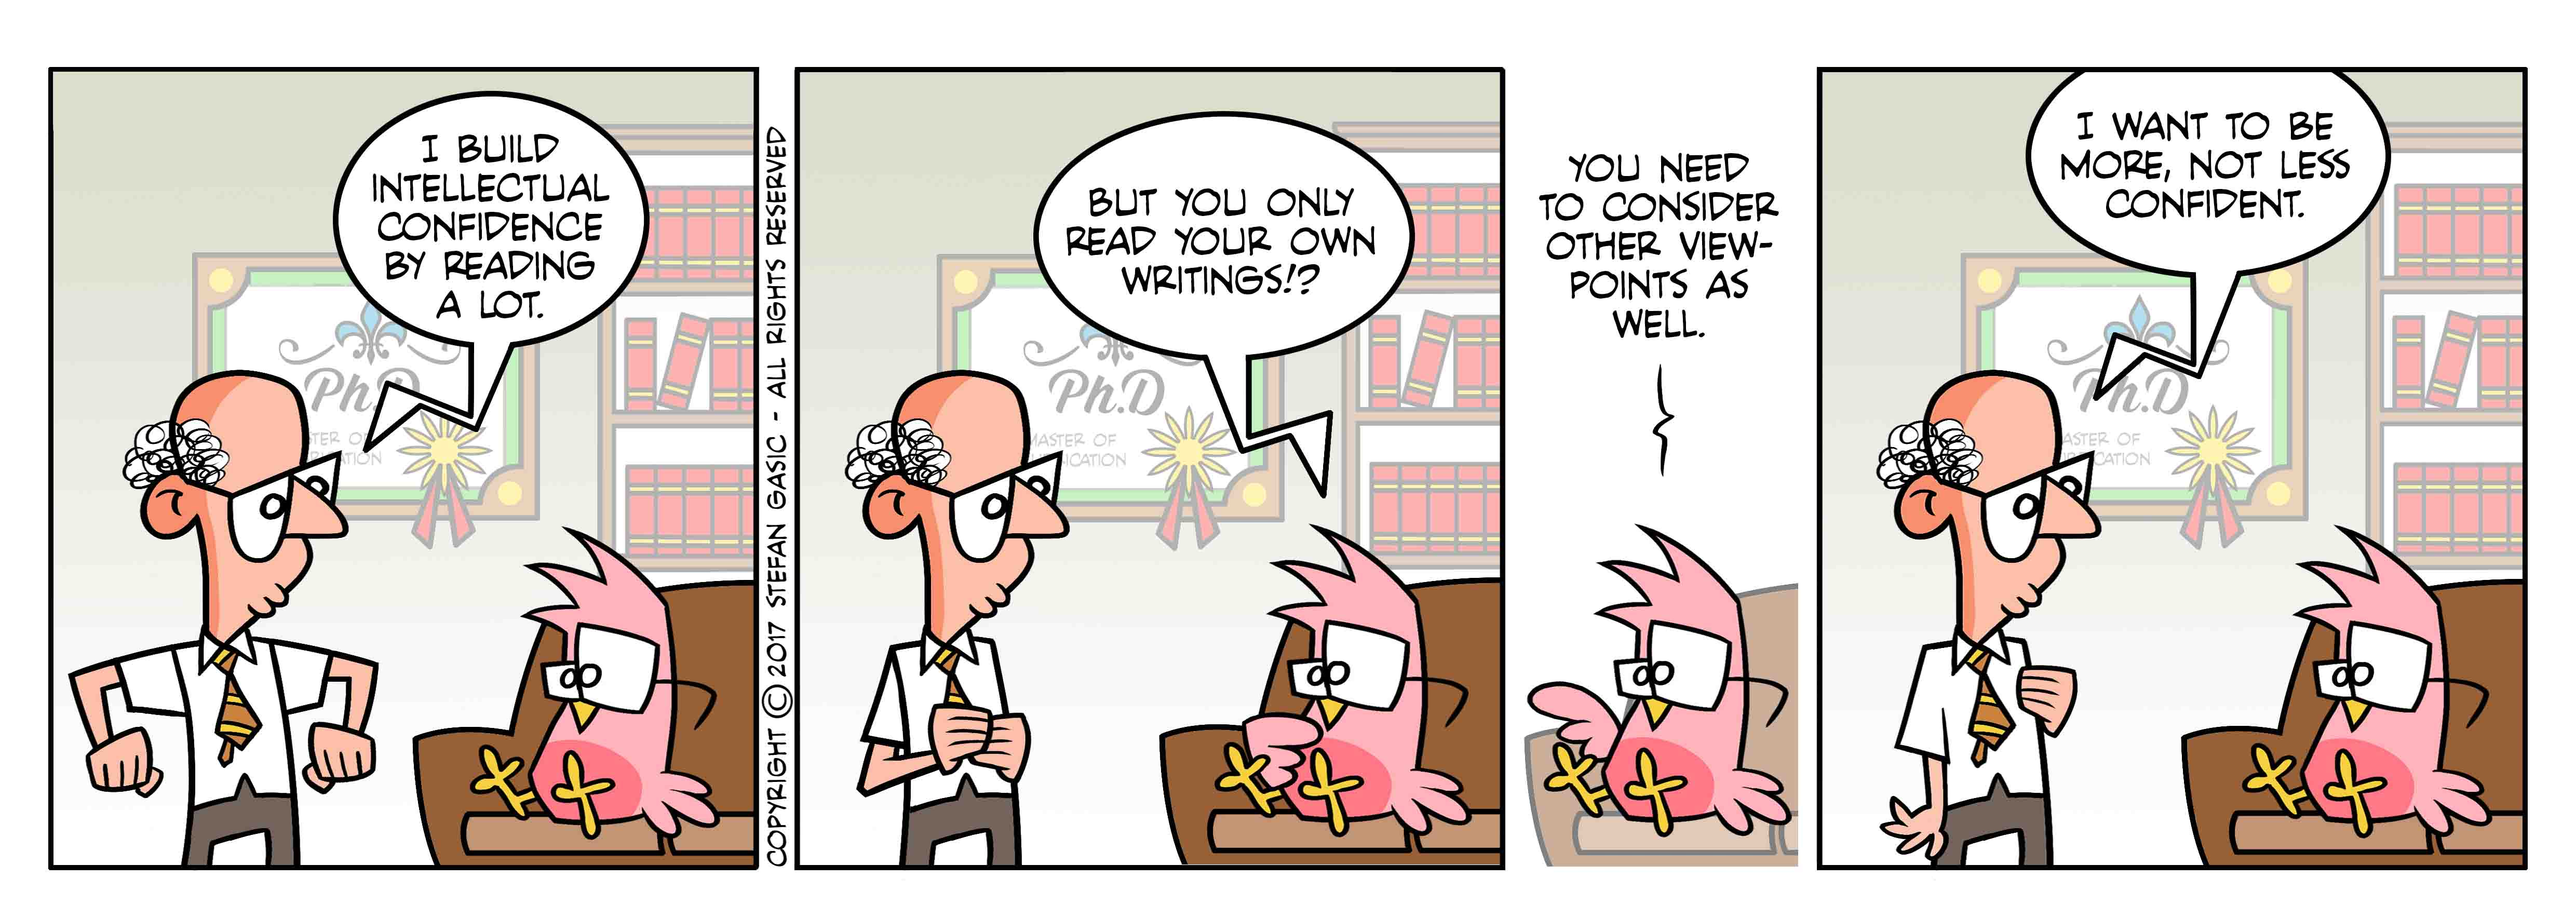
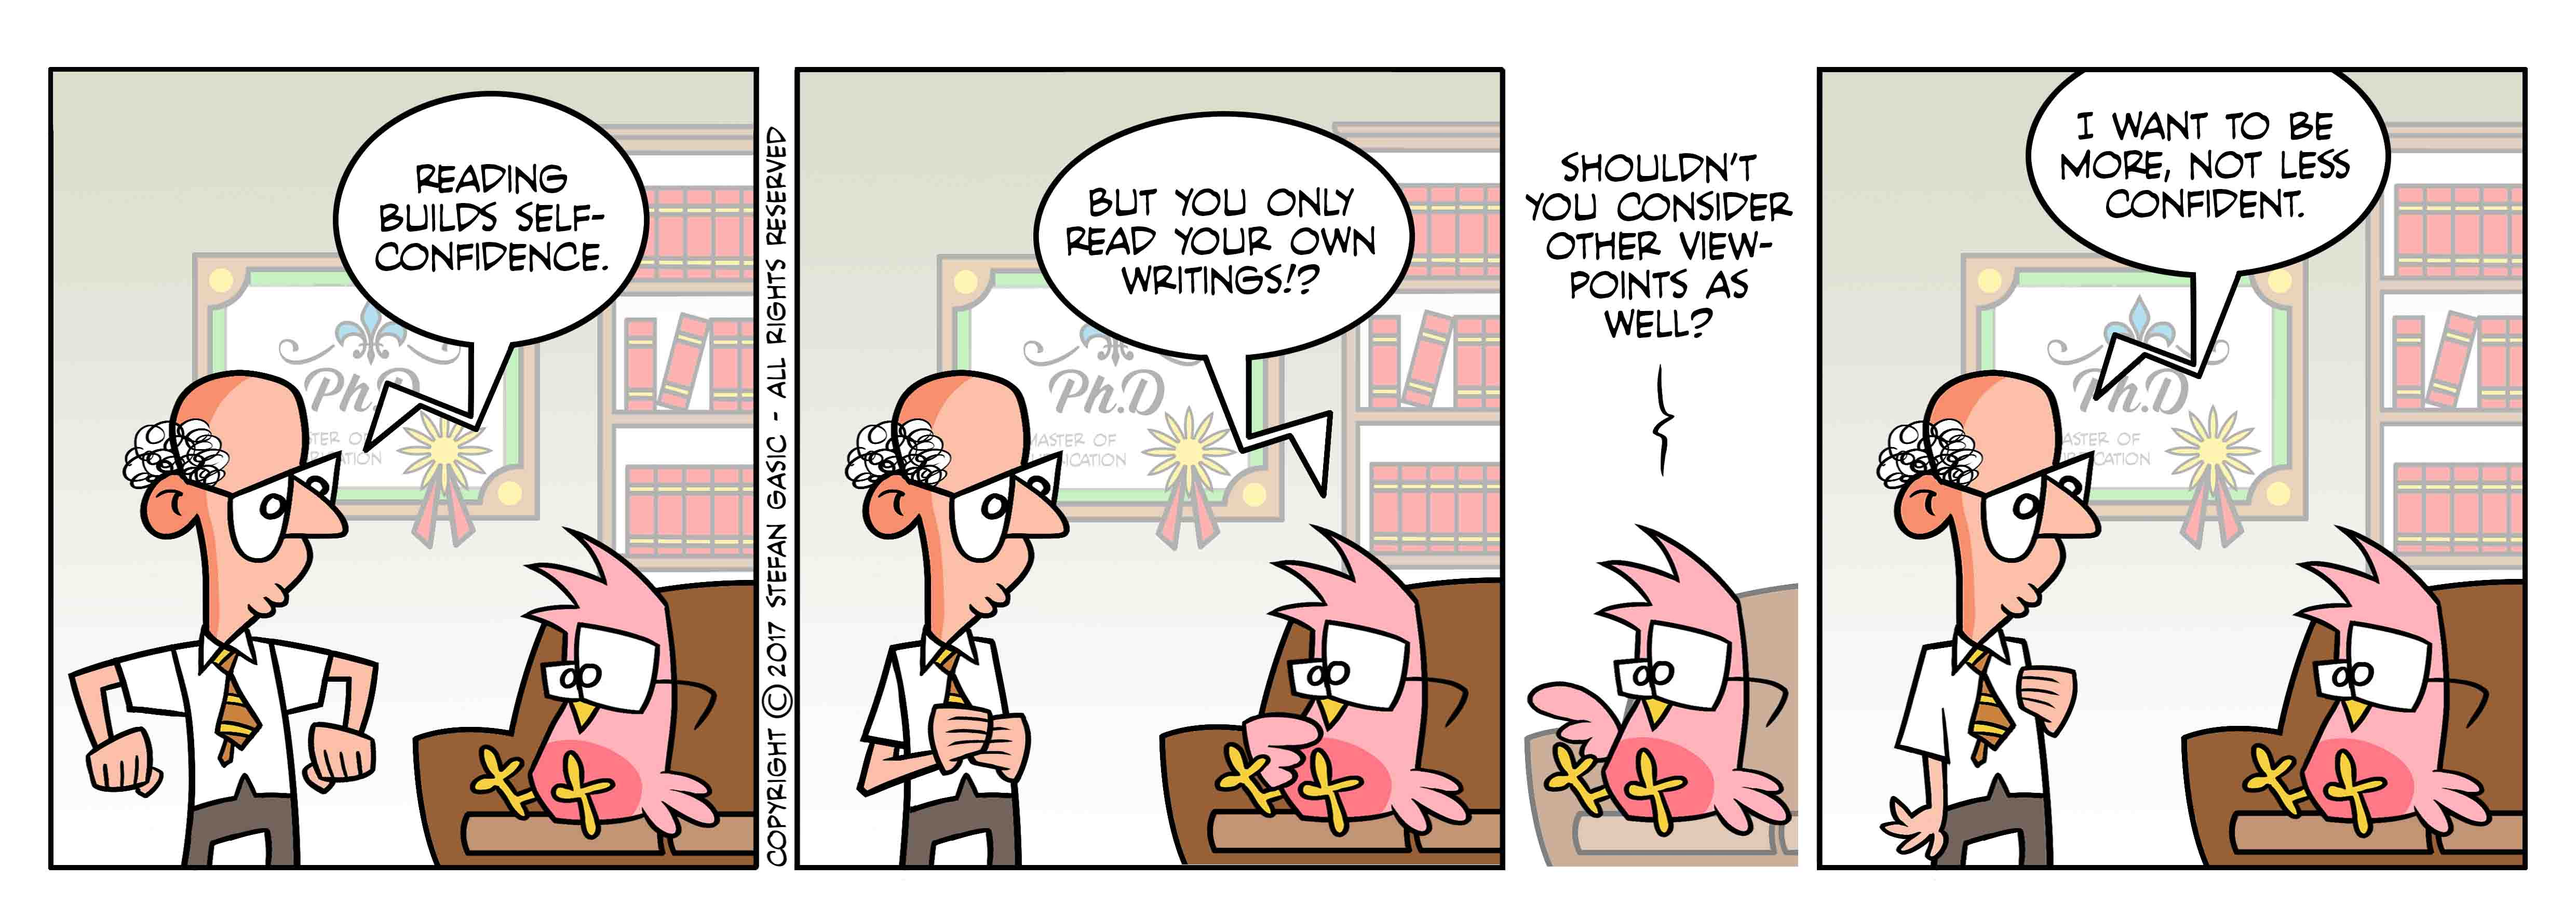
Added new strip and updated html & js accordingly.

Changed region(s): [[0.125, 0.1243, 0.2499, 0.3418], [0.5936, 0.1554, 0.6874, 0.2486], [0.6249, 0.3418, 0.6561, 0.3729]]

diff --git a/myscripts.js b/myscripts.js
@@ -1,4 +1,4 @@
-var Strips = ["images/S235.jpg","images/S234.jpg","images/S233.jpg","images/S232.jpg","images/S231.jpg","images/S230.jpg","images/S229.jpg","images/S228.jpg","images/S227.jpg","images/S226.jpg","images/S225.jpg","images/S224.jpg","images/S223.jpg","images/S222.jpg","images/S221.jpg","images/S220.jpg","images/S219.jpg","images/S218.jpg","images/S217.jpg","images/S216.jpg","images/S215.jpg","images/S214.jpg","images/S213.jpg","images/S212.jpg","images/S211.jpg","images/S210.jpg","images/S209.jpg","images/S208.jpg","images/S207.jpg","images/S206.jpg","images/S205.jpg","images/S204.jpg","images/S203.jpg","images/S202.jpg","images/S201.jpg","images/S200.jpg","images/S199.jpg","images/S198.jpg","images/S197.jpg","images/S196.jpg","images/S195.jpg","images/S194.jpg","images/S193.jpg","images/S192.jpg","images/S191.jpg","images/S190.jpg","images/S189.jpg","images/S188.jpg","images/S187.jpg","images/S186.jpg","images/S185.jpg","images/S184.jpg","images/S183.jpg","images/S182.jpg","images/S181.jpg","images/S180.jpg","images/S179.jpg","images/S178.jpg","images/S177.jpg","images/S176.jpg","images/S175.jpg","images/S174.jpg","images/S173.jpg","images/S172.jpg","images/S171.jpg","images/S170.jpg","images/S169.jpg","images/S168.jpg","images/S167.jpg","images/S166.jpg","images/S165.jpg","images/S164.jpg","images/S163.jpg","images/S162.jpg","images/S161.jpg","images/S160.jpg","images/S159.jpg","images/S158.jpg","images/S157.jpg","images/S156.jpg","images/S155.jpg","images/S154.jpg","images/S153.jpg","images/S152.jpg","images/S151.jpg","images/S150.jpg","images/S149.jpg","images/S148.jpg","images/S147.jpg","images/S146.jpg","images/S145.jpg","images/S144.jpg","images/S143.jpg","images/S142.jpg","images/S141.jpg","images/S140.jpg","images/S139.jpg","images/S138.jpg","images/S137.jpg","images/S136.jpg","images/S135.jpg","images/S134.jpg","images/S133.jpg","images/S132.jpg","images/S131.jpg","images/S130.jpg","images/S129.jpg","images/S128.jpg","images/S127.jpg","images/S126.jpg","images/S125.jpg","images/S124.jpg","images/S123.jpg","images/S122.jpg","images/S121.jpg","images/S120.jpg","images/S119.jpg","images/S118.jpg","images/S117.jpg","images/S116.jpg","images/S115.jpg","images/S114.jpg","images/S113.jpg","images/S112.jpg","images/S111.jpg","images/S110.jpg","images/S109.jpg","images/S108.jpg","images/S107.jpg","images/S106.jpg","images/S105.jpg","images/S104.jpg","images/S103.jpg","images/S102.jpg","images/S101.jpg","images/S100.jpg","images/S99.jpg","images/S98.jpg","images/S97.jpg","images/S96.jpg","images/S95.jpg","images/S94.jpg","images/S93.jpg","images/S92.jpg","images/S91.jpg","images/S90.jpg","images/S89.jpg","images/S88.jpg","images/S87.jpg","images/S86.jpg","images/S85.jpg","images/S84.jpg","images/S83.jpg","images/S82.jpg","images/S81.jpg","images/S80.jpg","images/S79.jpg","images/S78.jpg","images/S77.jpg","images/S76.jpg","images/S75.jpg","images/S74.jpg","images/S73.jpg","images/S72.jpg","images/S71.jpg","images/S70.jpg","images/S69.jpg","images/S68.jpg","images/S67.jpg","images/S66.jpg","images/S65.jpg","images/S64.jpg","images/S63.jpg","images/S62.jpg","images/S61.jpg","images/S60.jpg","images/S59.jpg","images/S58.jpg","images/S57.jpg","images/S56.jpg","images/S55.jpg","images/S54.jpg","images/S53.jpg","images/S52.jpg","images/S51.jpg","images/S50.jpg","images/S49.jpg","images/S48.jpg","images/S47.jpg","images/S46.jpg","images/S45.jpg","images/S44.jpg","images/S43.jpg","images/S42.jpg","images/S41.jpg","images/S40.jpg","images/S39.jpg","images/S38.jpg","images/S37.jpg","images/S36.jpg","images/S35.jpg","images/S34.jpg","images/S33.jpg","images/S32.jpg","images/S31.jpg","images/S30.jpg","images/S29.jpg","images/S28.jpg","images/S27.jpg","images/S26.jpg","images/S25.jpg","images/S24.jpg","images/S23.jpg","images/S22.jpg","images/S21.jpg","images/S20.jpg","images/S19.jpg","images/S18.jpg","images/S17.jpg","images/S16.jpg","images/S15.jpg","images/S14.jpg","images/S13.jpg","images/S12.jpg","images/S11.jpg","images/S10.jpg","images/S9.jpg","images/S8.jpg","images/S7.jpg","images/S6.jpg","images/S5.jpg","images/S4.jpg","images/S3.jpg","images/S2.jpg","images/S1.jpg"];
+var Strips = ["images/S236.jpg","images/S235.jpg","images/S234.jpg","images/S233.jpg","images/S232.jpg","images/S231.jpg","images/S230.jpg","images/S229.jpg","images/S228.jpg","images/S227.jpg","images/S226.jpg","images/S225.jpg","images/S224.jpg","images/S223.jpg","images/S222.jpg","images/S221.jpg","images/S220.jpg","images/S219.jpg","images/S218.jpg","images/S217.jpg","images/S216.jpg","images/S215.jpg","images/S214.jpg","images/S213.jpg","images/S212.jpg","images/S211.jpg","images/S210.jpg","images/S209.jpg","images/S208.jpg","images/S207.jpg","images/S206.jpg","images/S205.jpg","images/S204.jpg","images/S203.jpg","images/S202.jpg","images/S201.jpg","images/S200.jpg","images/S199.jpg","images/S198.jpg","images/S197.jpg","images/S196.jpg","images/S195.jpg","images/S194.jpg","images/S193.jpg","images/S192.jpg","images/S191.jpg","images/S190.jpg","images/S189.jpg","images/S188.jpg","images/S187.jpg","images/S186.jpg","images/S185.jpg","images/S184.jpg","images/S183.jpg","images/S182.jpg","images/S181.jpg","images/S180.jpg","images/S179.jpg","images/S178.jpg","images/S177.jpg","images/S176.jpg","images/S175.jpg","images/S174.jpg","images/S173.jpg","images/S172.jpg","images/S171.jpg","images/S170.jpg","images/S169.jpg","images/S168.jpg","images/S167.jpg","images/S166.jpg","images/S165.jpg","images/S164.jpg","images/S163.jpg","images/S162.jpg","images/S161.jpg","images/S160.jpg","images/S159.jpg","images/S158.jpg","images/S157.jpg","images/S156.jpg","images/S155.jpg","images/S154.jpg","images/S153.jpg","images/S152.jpg","images/S151.jpg","images/S150.jpg","images/S149.jpg","images/S148.jpg","images/S147.jpg","images/S146.jpg","images/S145.jpg","images/S144.jpg","images/S143.jpg","images/S142.jpg","images/S141.jpg","images/S140.jpg","images/S139.jpg","images/S138.jpg","images/S137.jpg","images/S136.jpg","images/S135.jpg","images/S134.jpg","images/S133.jpg","images/S132.jpg","images/S131.jpg","images/S130.jpg","images/S129.jpg","images/S128.jpg","images/S127.jpg","images/S126.jpg","images/S125.jpg","images/S124.jpg","images/S123.jpg","images/S122.jpg","images/S121.jpg","images/S120.jpg","images/S119.jpg","images/S118.jpg","images/S117.jpg","images/S116.jpg","images/S115.jpg","images/S114.jpg","images/S113.jpg","images/S112.jpg","images/S111.jpg","images/S110.jpg","images/S109.jpg","images/S108.jpg","images/S107.jpg","images/S106.jpg","images/S105.jpg","images/S104.jpg","images/S103.jpg","images/S102.jpg","images/S101.jpg","images/S100.jpg","images/S99.jpg","images/S98.jpg","images/S97.jpg","images/S96.jpg","images/S95.jpg","images/S94.jpg","images/S93.jpg","images/S92.jpg","images/S91.jpg","images/S90.jpg","images/S89.jpg","images/S88.jpg","images/S87.jpg","images/S86.jpg","images/S85.jpg","images/S84.jpg","images/S83.jpg","images/S82.jpg","images/S81.jpg","images/S80.jpg","images/S79.jpg","images/S78.jpg","images/S77.jpg","images/S76.jpg","images/S75.jpg","images/S74.jpg","images/S73.jpg","images/S72.jpg","images/S71.jpg","images/S70.jpg","images/S69.jpg","images/S68.jpg","images/S67.jpg","images/S66.jpg","images/S65.jpg","images/S64.jpg","images/S63.jpg","images/S62.jpg","images/S61.jpg","images/S60.jpg","images/S59.jpg","images/S58.jpg","images/S57.jpg","images/S56.jpg","images/S55.jpg","images/S54.jpg","images/S53.jpg","images/S52.jpg","images/S51.jpg","images/S50.jpg","images/S49.jpg","images/S48.jpg","images/S47.jpg","images/S46.jpg","images/S45.jpg","images/S44.jpg","images/S43.jpg","images/S42.jpg","images/S41.jpg","images/S40.jpg","images/S39.jpg","images/S38.jpg","images/S37.jpg","images/S36.jpg","images/S35.jpg","images/S34.jpg","images/S33.jpg","images/S32.jpg","images/S31.jpg","images/S30.jpg","images/S29.jpg","images/S28.jpg","images/S27.jpg","images/S26.jpg","images/S25.jpg","images/S24.jpg","images/S23.jpg","images/S22.jpg","images/S21.jpg","images/S20.jpg","images/S19.jpg","images/S18.jpg","images/S17.jpg","images/S16.jpg","images/S15.jpg","images/S14.jpg","images/S13.jpg","images/S12.jpg","images/S11.jpg","images/S10.jpg","images/S9.jpg","images/S8.jpg","images/S7.jpg","images/S6.jpg","images/S5.jpg","images/S4.jpg","images/S3.jpg","images/S2.jpg","images/S1.jpg"];
 
 var Current = 0;
 var myStrip = null;

diff --git a/index.html b/index.html
@@ -38,7 +38,7 @@
 		<div class="wrapper6">
 			<div class="wrap-item61"><img src="images/2017_Offshorecomics_web_Today's Offshorecomic.jpg"/></div>
 		</div>
-		<div class="wrap-item1"><img src="images/S235.jpg" id="Strip"/></div>
+		<div class="wrap-item1"><img src="images/S236.jpg" id="Strip"/></div>
 		<div class="wrapper3">
 			<div class="wrap-item3">
 			<button class="button" onClick="Last();">&lsaquo;&lsaquo;</button>
